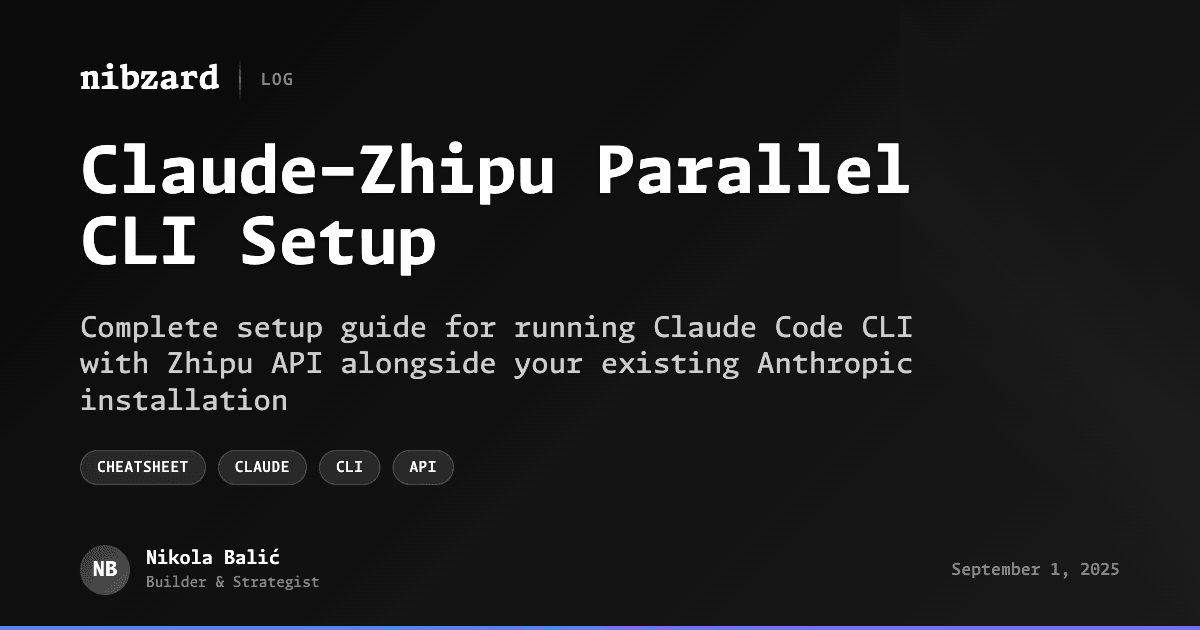
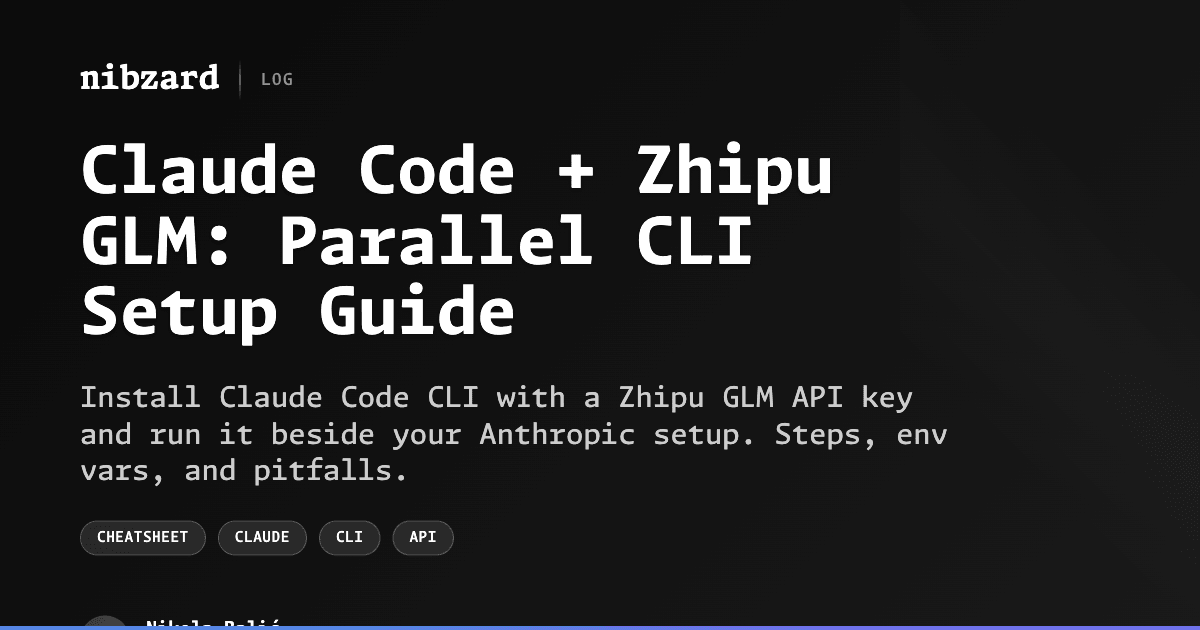
content: sharpen claude-zhipu meta, handbook TOC, bang-mode section
Analytics-driven edits: claude-zhipu title/description for 0.53% CTR at
4.1k impressions; "Awesome Agentic Patterns" index for position-7 queries;
exclamation-mark section for position-4.5 queries. Fix last_updated ->
updated in handbook frontmatter and link berghain from claude-code.

diff --git a/src/content/log/agentic-handbook.md b/src/content/log/agentic-handbook.md
@@ -3,7 +3,7 @@ title: "The Agentic AI Handbook: Production-Ready Patterns"
 description: "A comprehensive guide to 113 production-informed patterns for building reliable AI agents."
 tldr: "113 patterns collected from public write-ups of real systems. Learn the workflows, guardrails, and architecture that make agents useful beyond demos."
 date: 2026-01-15
-last_updated: 2026-01-21
+updated: 2026-01-21
 tags: [AI, AGENTS, PATTERNS, PRODUCTION, ENGINEERING]
 draft: false
 featured: true
@@ -37,6 +37,23 @@ This post is a **production-minded guide** to the pattern library behind:
 - Not a promise that you can bolt an "agent mode" onto any workflow and instantly ship faster.
 
 If you've tried agents and felt like it was "banging rocks together," you're not alone. A recurring theme in developer discussions is that tooling and workflow often fail before the model does: confusing "change stacks," context management friction, and agents making the same edit repeatedly. This post explicitly addresses those failure modes.
+
+---
+
+## Awesome Agentic Patterns: the short version
+
+If you want the pattern names before the full walkthrough, here is the whole library in eight moves. Each one links to its section below.
+
+1. [Orchestration & control](#1-orchestration--control) — who decides the next step, and when the loop stops.
+2. [Tool use & environment](#2-tool-use--environment) — how tools are given, sandboxed, and shown to the agent.
+3. [Context & memory](#3-context--memory) — what the model sees each turn, and what it does not.
+4. [Feedback loops](#4-feedback-loops) — signals that tell the agent it is done, or that it is wrong.
+5. [UX & collaboration](#5-ux--collaboration) — where the human sits in the loop.
+6. [Reliability & eval](#6-reliability--eval) — how you know it still works next week.
+7. [Learning & adaptation](#7-learning--adaptation) — what the system keeps between runs.
+8. [Security & safety](#8-security--safety) — blast radius, secrets, and failure containment.
+
+If you keep only two of these, make them orchestration and feedback loops. Most production incidents trace back to one of the two.
 
 ---
 

diff --git a/src/content/log/claude-code.md b/src/content/log/claude-code.md
@@ -109,12 +109,21 @@ Once installed, you can start Claude Code by running `claude` in your terminal.
 
 *   **Shift+Tab:** Auto-accept edits. Bash commands will still require explicit approval, but file edits can be auto-accepted.
 *   **`#` (Pound/Hash sign):** Create a memory. The current interaction or a summary will be added to the relevant `CLAUDE.md` file.
-*   **`!` (Exclamation mark):** Enter Bash mode. Allows you to run a shell command locally. The command and its output are added to Claude's context.
 *   **`@` (At sign):** Add a file or folder to the current session's context.
 *   **`Esc`:** Cancel the current operation Claude is performing.
 *   **`Double-Esc`:** Jump back in history. You can then use `--resume` to continue a previous session.
 *   **`Ctrl+R`:** Show verbose output. This reveals Claude's "thought process," including which tools it's considering or using.
 *   **`/vibe`**: (Audience mentioned, presenter skipped).
+
+### Run shell commands with ! (bang mode)
+
+Type `!` at the prompt and Claude Code changes to bash mode. The command runs on your machine, without a model call, and the command with its output is added to the session context. Use it for quick checks that you do not need Claude to do, only to see:
+
+```bash
+! git status
+```
+
+The output stays in context, so your next prompt can ask about it.
 
 ## VI. Scripting Claude: Claude Code SDK
 
@@ -148,3 +157,5 @@ Once installed, you can start Claude Code by running `claude` in your terminal.
     *   A single checkout using Git worktrees for branch isolation.
     *   SSH sessions combined with TMUX for managing multiple remote Claude instances.
     *   GitHub Actions to launch Claude Code jobs in parallel for CI/automation.
+
+If you want to see these habits under pressure, read [how Claude Code fared on the Berghain bouncer challenge](/berghain) — one day, one optimization problem, and a long queue of rejections.

diff --git a/src/content/log/claude-zhipu.md b/src/content/log/claude-zhipu.md
@@ -1,9 +1,9 @@
 ---
-title: "Claude-Zhipu Parallel CLI Setup"
-description: "Complete setup guide for running Claude Code CLI with Zhipu API alongside your existing Anthropic installation"
+title: "Claude Code + Zhipu GLM: Parallel CLI Setup Guide"
+description: "Install Claude Code CLI with a Zhipu GLM API key and run it beside your Anthropic setup. Steps, env vars, and pitfalls."
 tldr: "This setup allows you to use Claude Code CLI with Zhipu's API (api.z.ai) in parallel with your existing Claude Max / Anthropic CLI installation using a separate command called claude-zhipu."
 date: 2025-12-23
-tags: [CHEATSHEET, Claude, CLI, API, featured]
+tags: [CHEATSHEET, Claude, CLI, API]
 draft: false
 author: "Nikola Balić"
 topics: [Multi-API setup, Claude Code configuration, parallel CLI installations, API provider switching]
